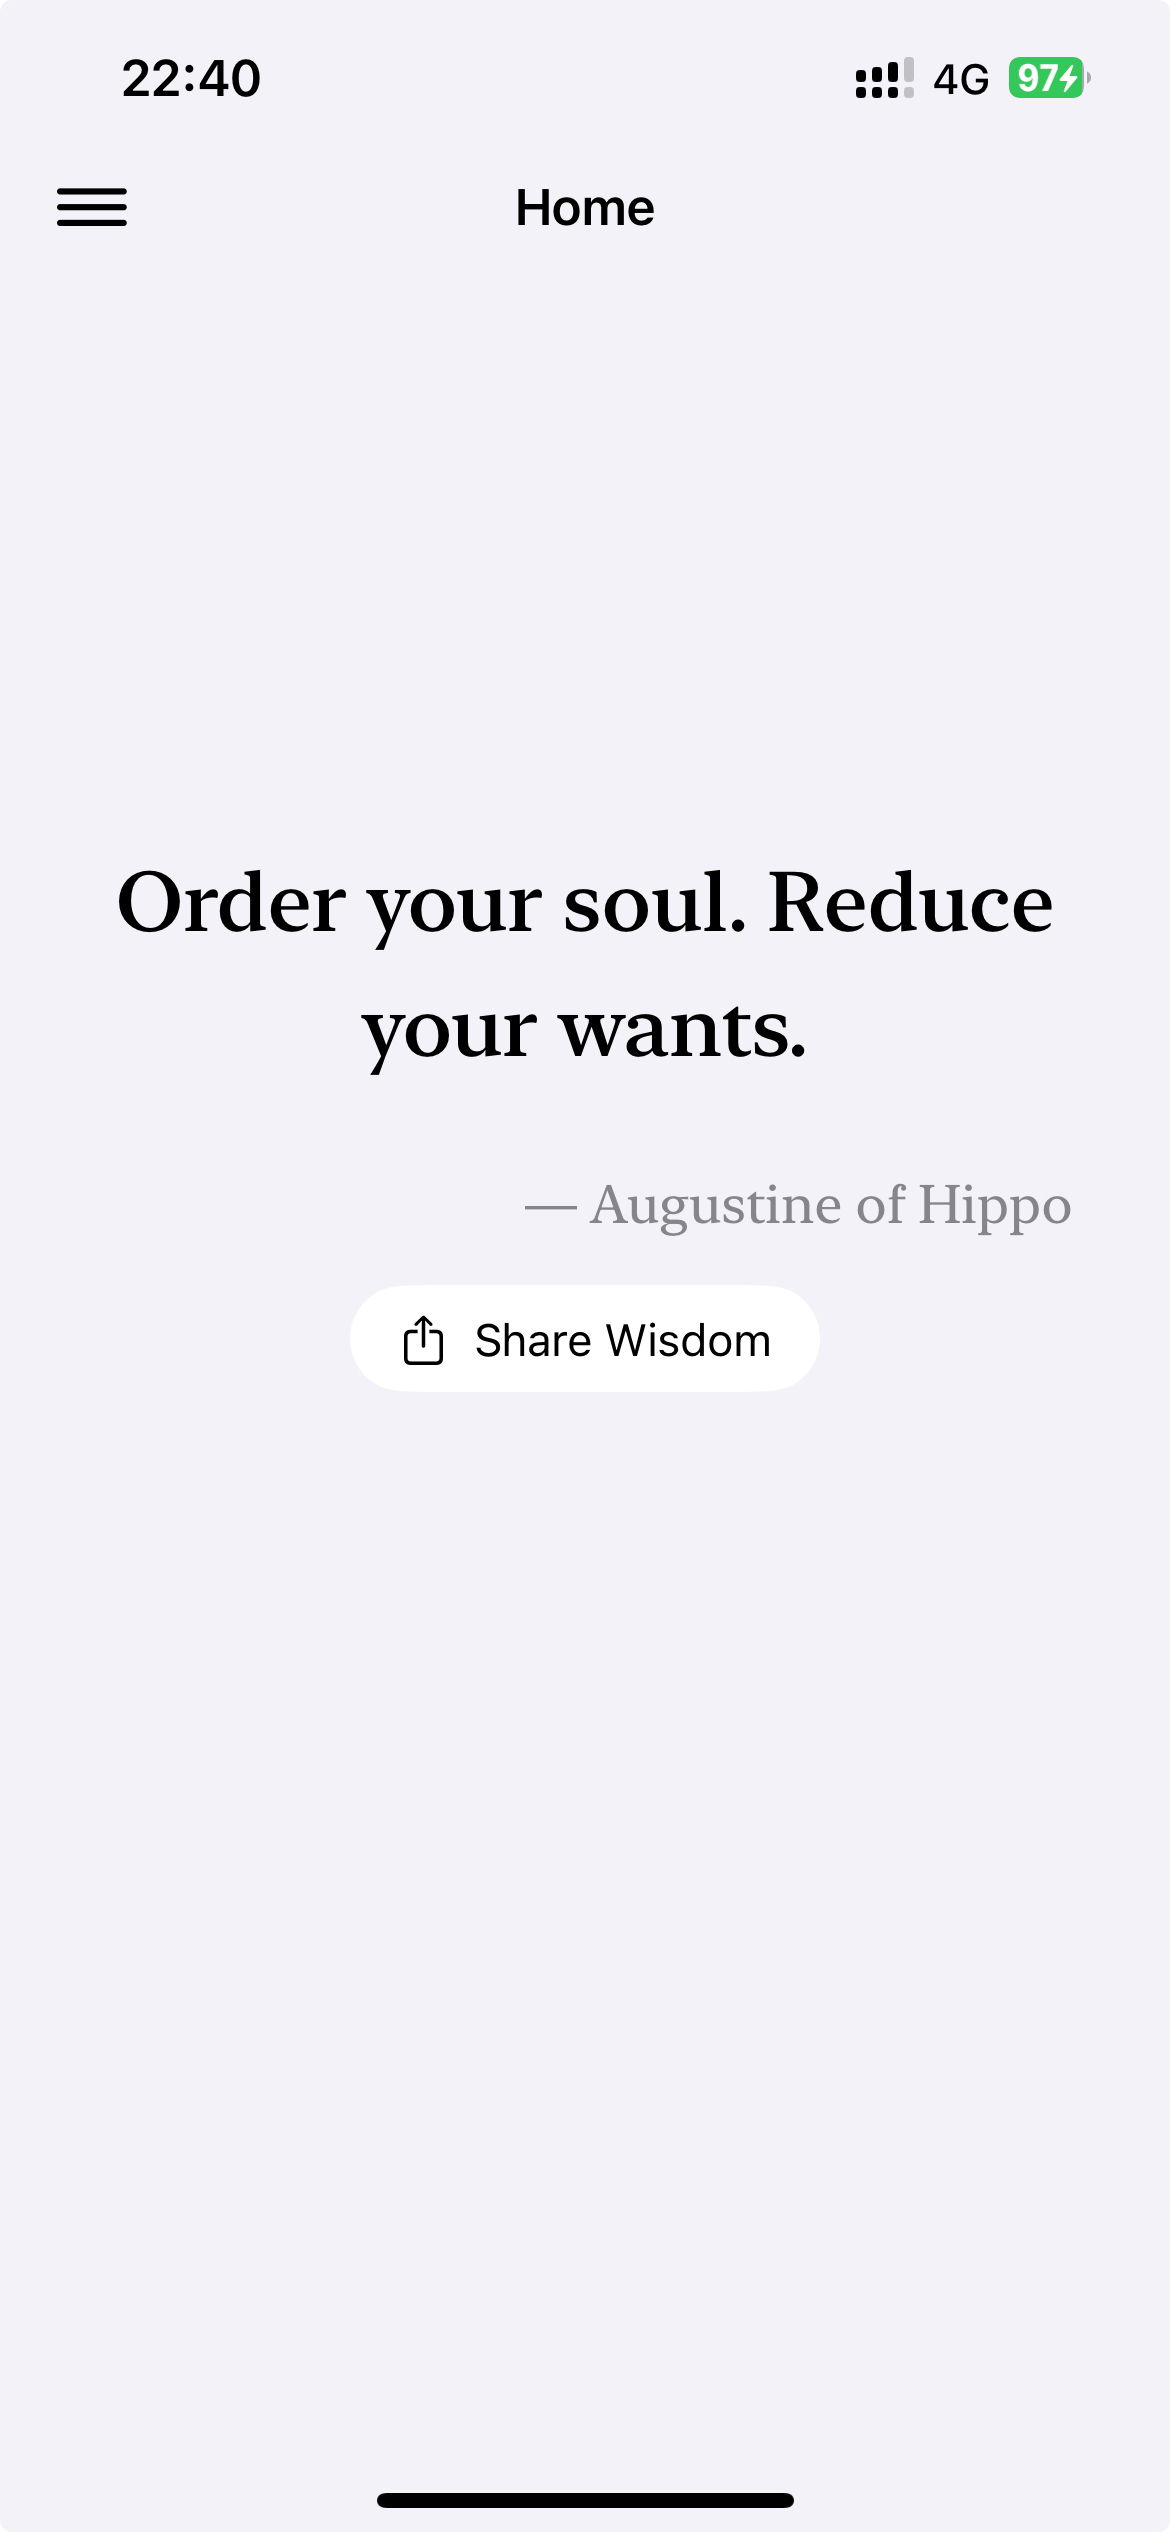
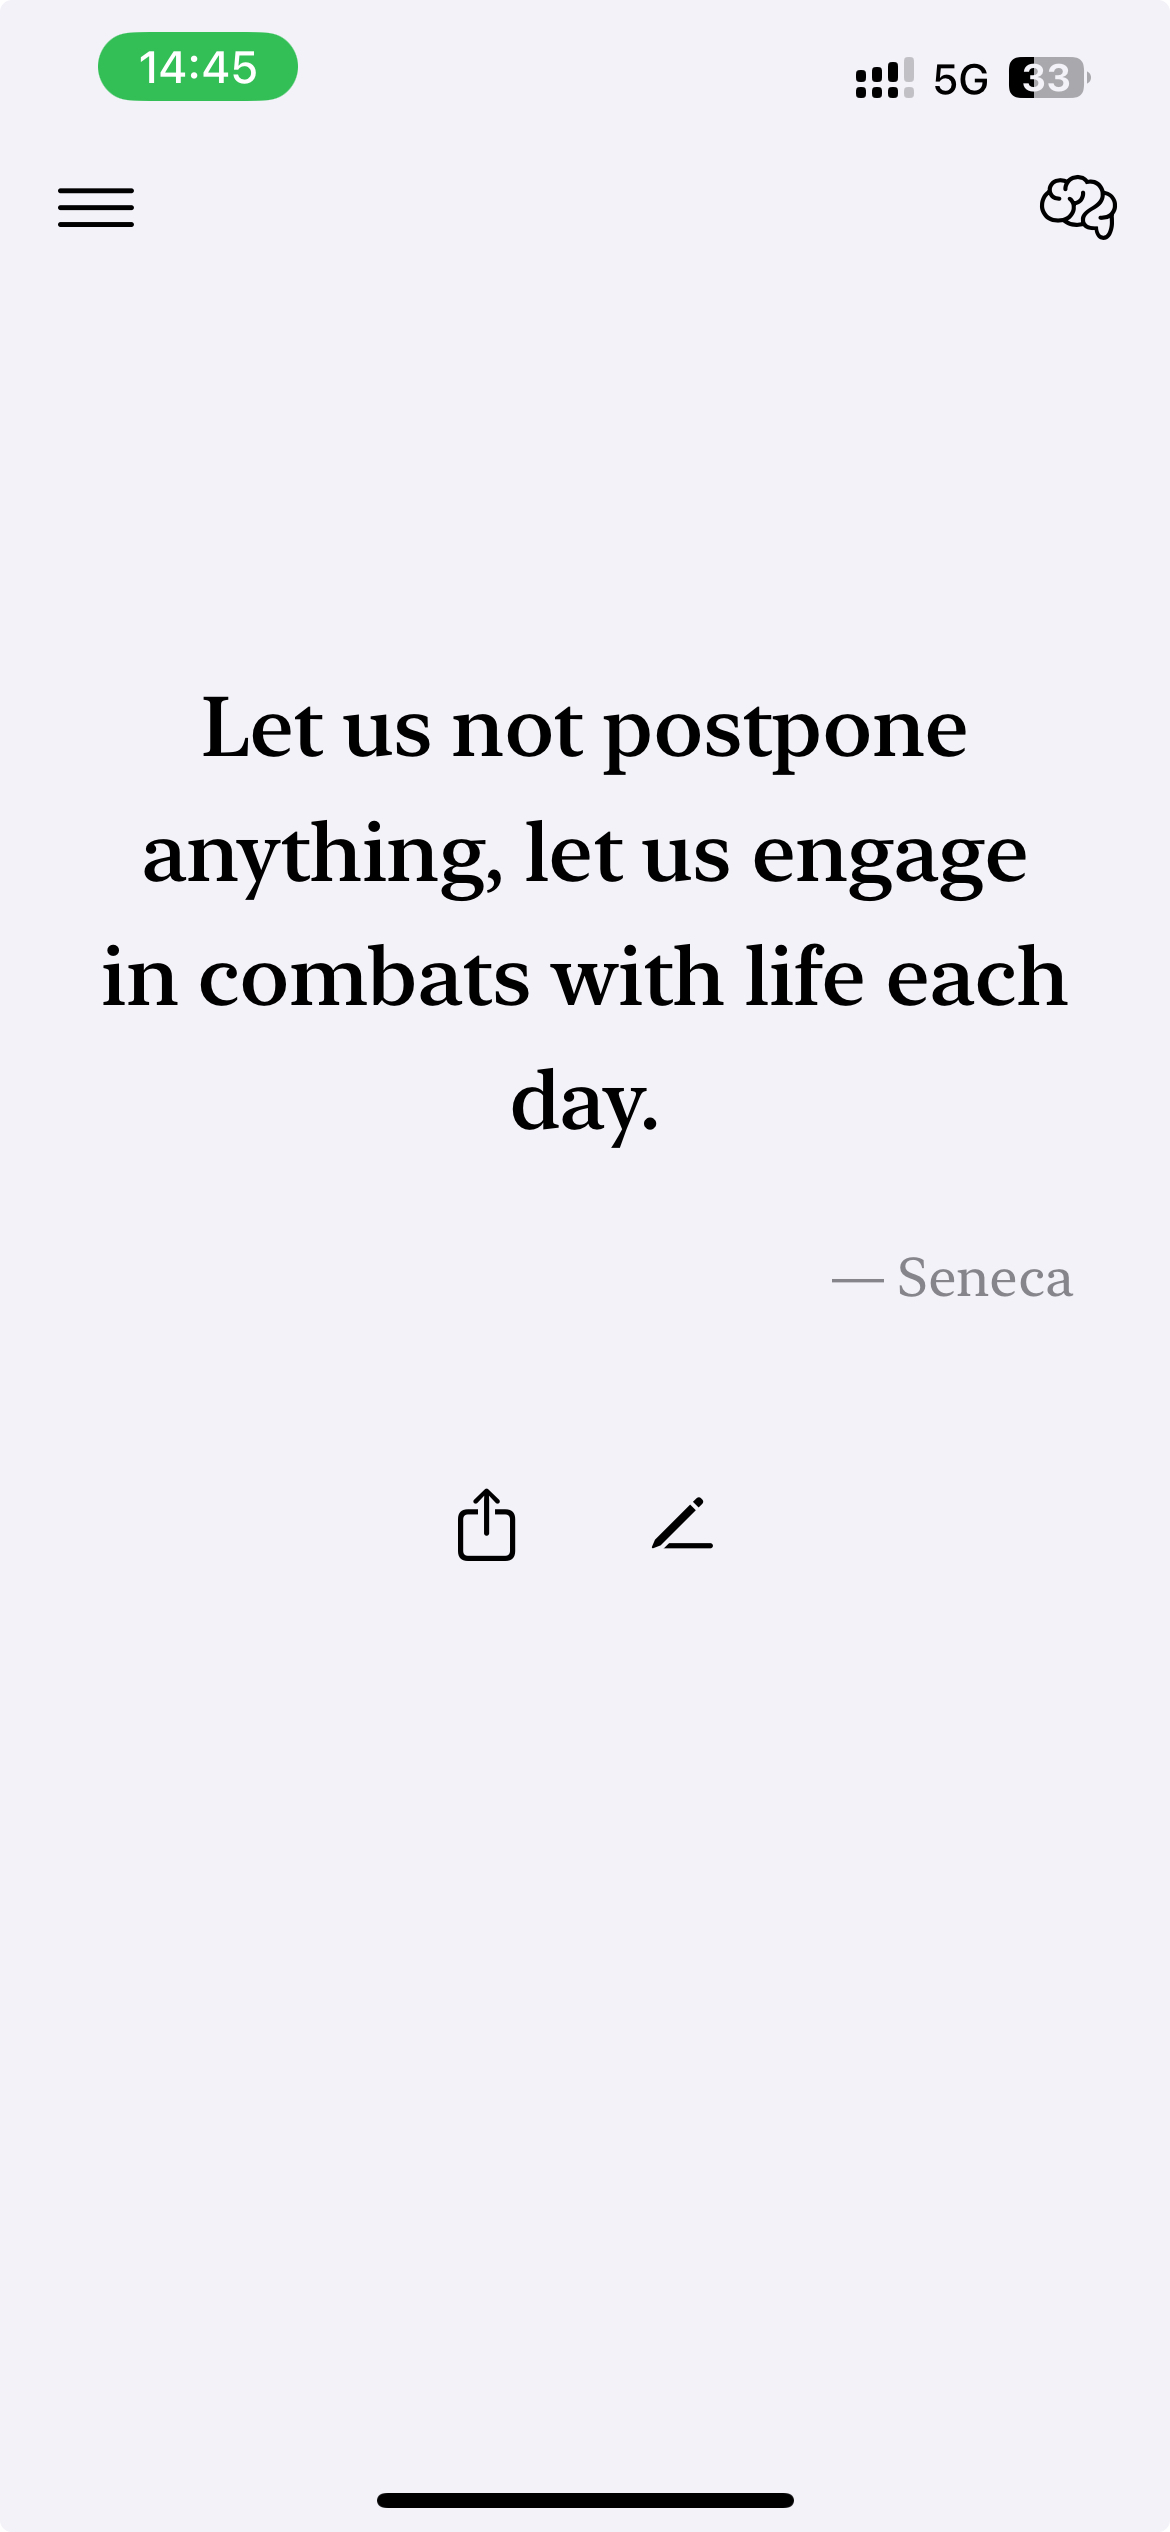
docs: 更新 README 及添加新应用截图

diff --git a/README.md b/README.md
@@ -6,9 +6,10 @@
 
 ## 📸 UI Preview
 
-| Home | Saved |
+| 1 | 2 |
 | :---: | :---: |
 | ![Home](StoicismDaily/ScreenShot/home.jpeg) | ![Saved](StoicismDaily/ScreenShot/saved.jpeg) |
+| ![chengsi](StoicismDaily/ScreenShot/chengsi.jpeg) | ![ai](StoicismDaily/ScreenShot/ai.jpeg) |
 
 ---
 
